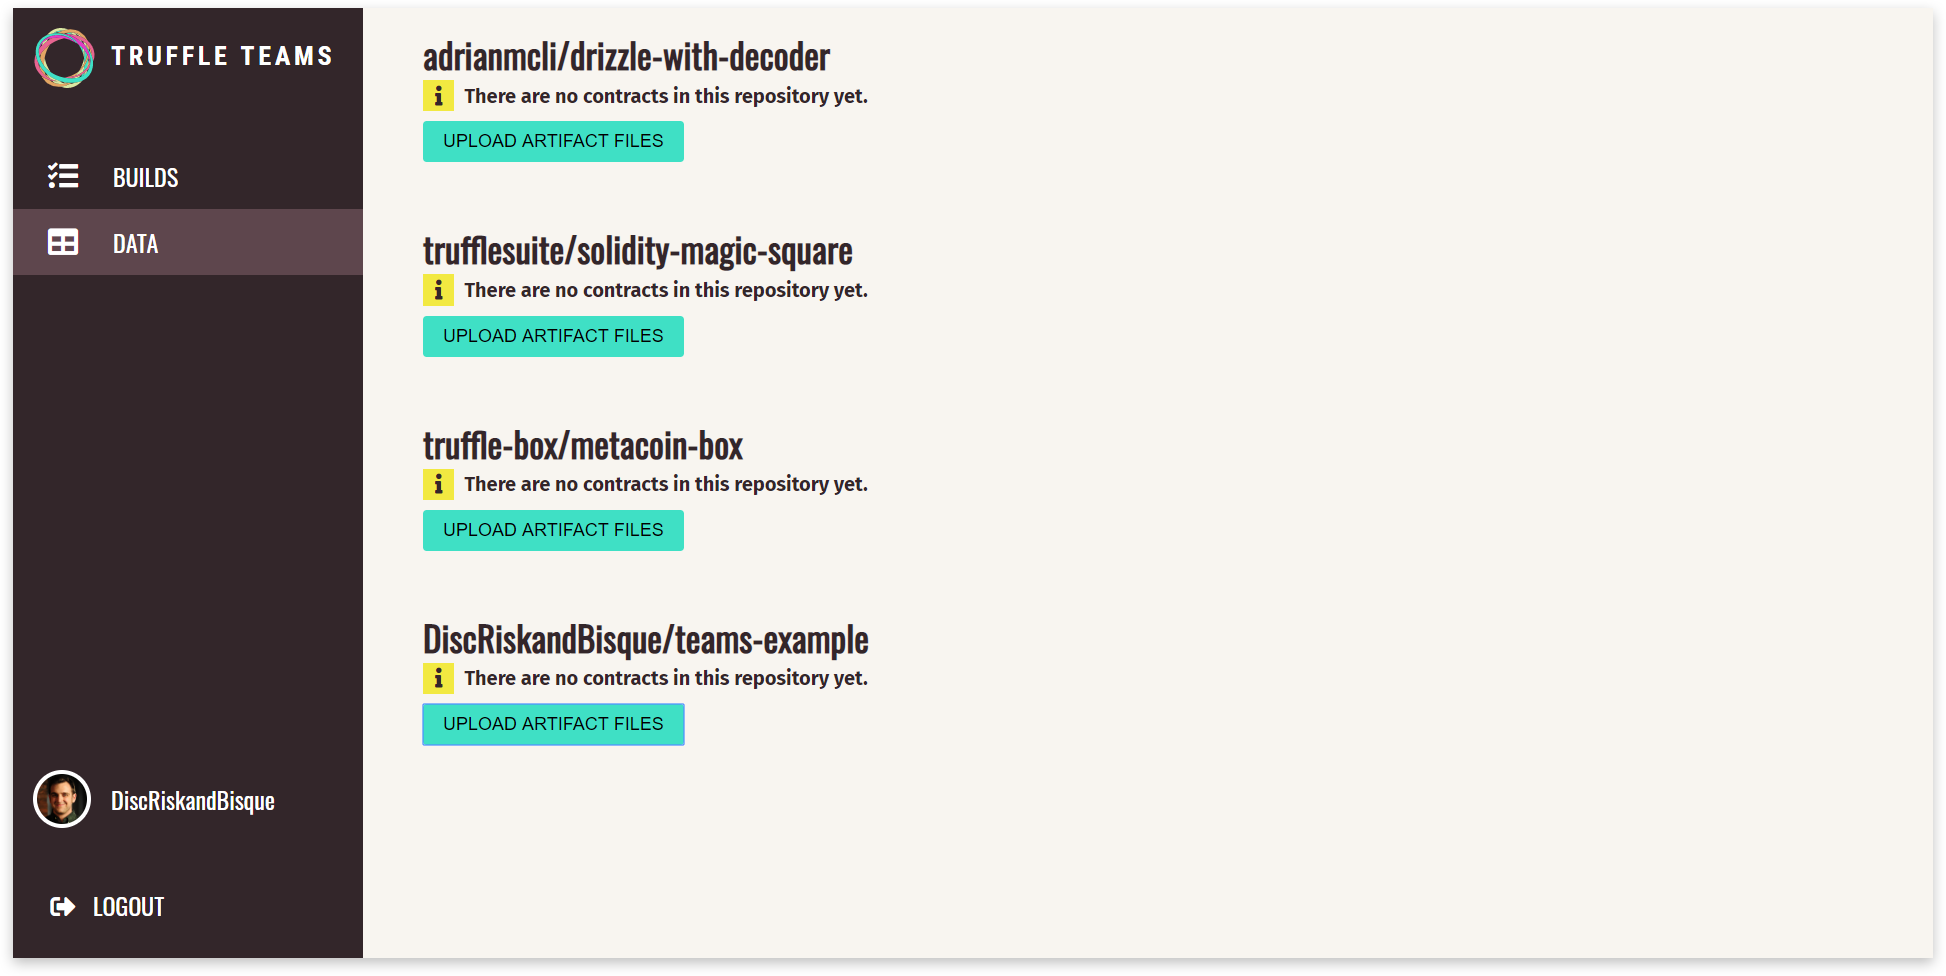
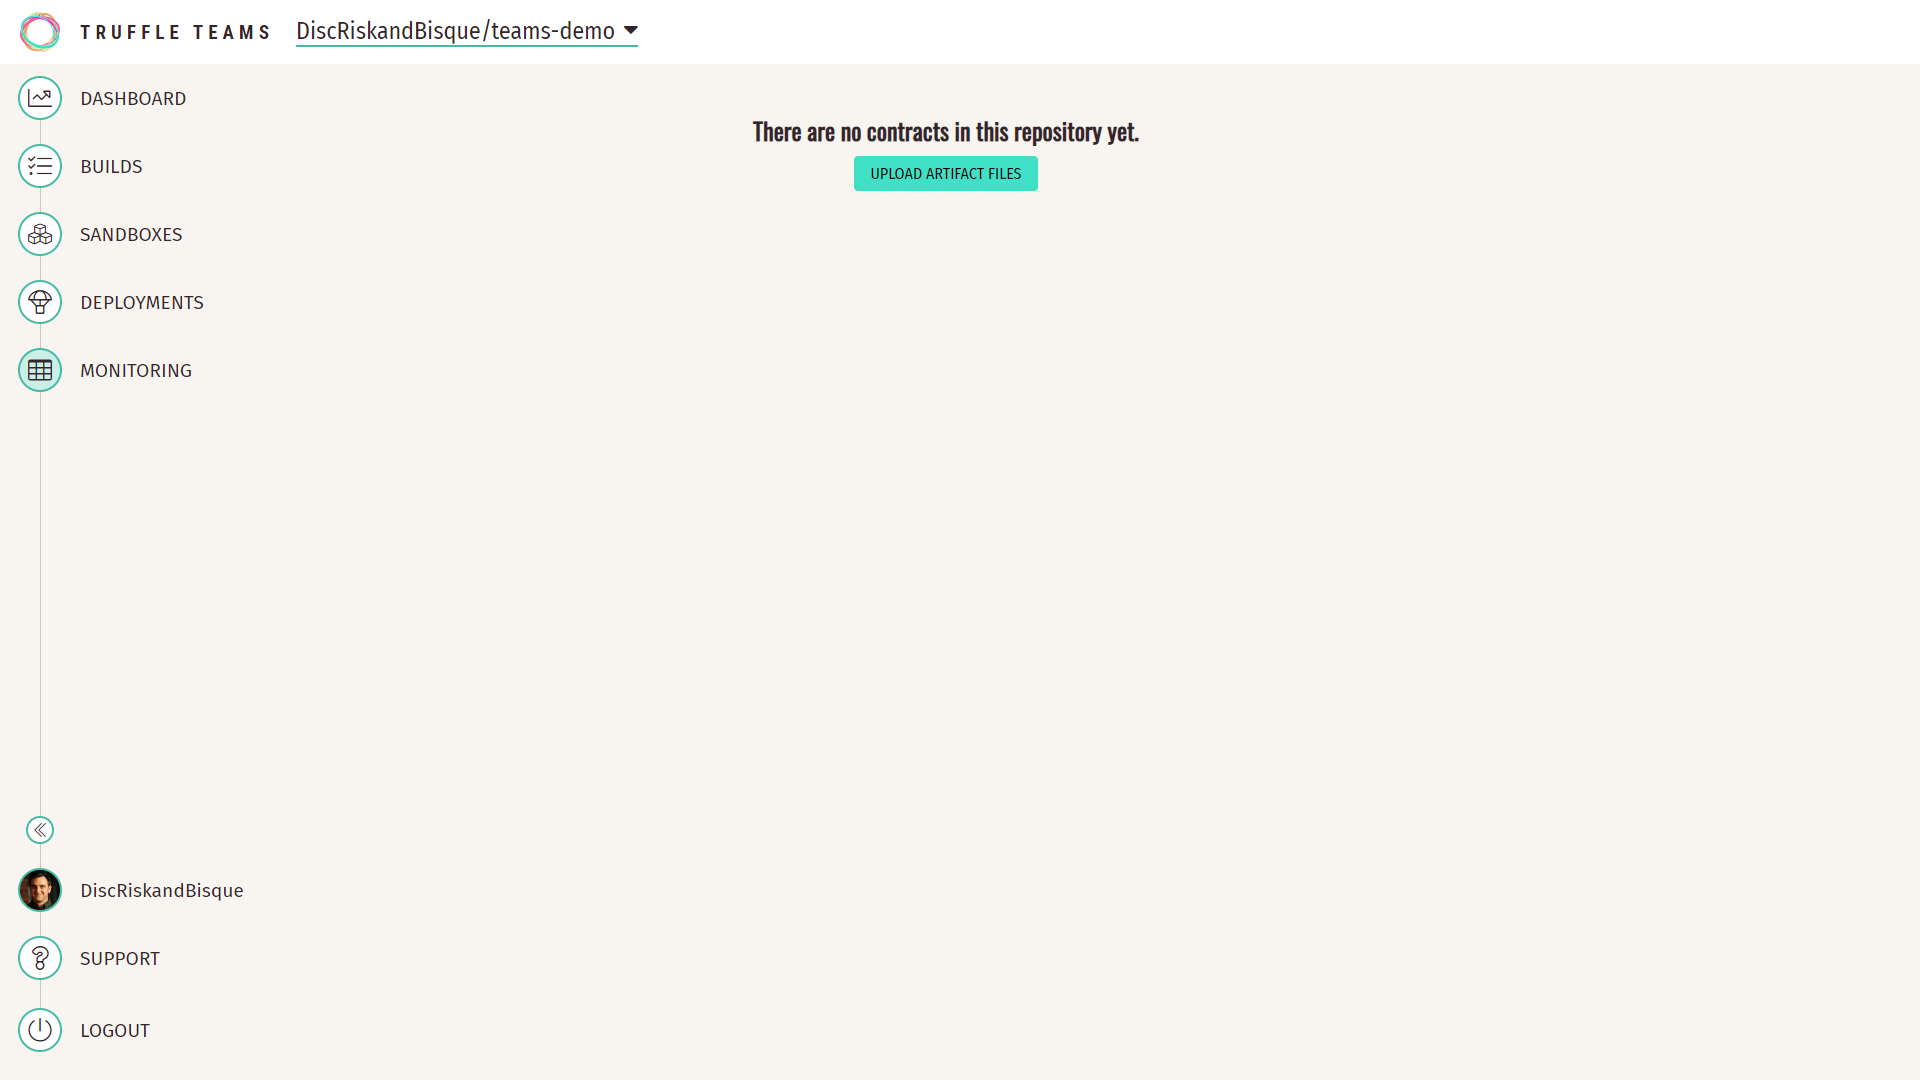
Update copy and screenshots for latest Teams ver

diff --git a/src/docs/teams/contracts/contract-monitoring.md b/src/docs/teams/contracts/contract-monitoring.md
@@ -8,21 +8,29 @@ We can monitor any contract that is deployed to a network and has a Truffle arti
 
 ## Adding Contracts for Monitoring
 
-To start monitoring, click the <span class="inline-menu-item"><i class="fas fa-table"></i>DATA</span> link in the sidebar and then the <span class="inline-button">UPLOAD ARTIFACT FILES</span> button.
+To start monitoring, click the <span class="inline-menu-item"><i class="far fa-table"></i>MONITORING</span> link in the sidebar and then the <span class="inline-button">UPLOAD ARTIFACT FILES</span> button.
 
-![Truffle Teams DATA view](/img/docs/teams/add-contract-01.png)
+<figure>
+  <img class="figure-shadow mb-2" src="/img/docs/teams/add-contract-01.png" alt="Blank contract monitoring screen" style="width: 100%">
+</figure>
 
 From there your operating system's file picker will open. Navigate to your project's contract build folder and select the artifacts you wish to upload. You can select more than one at at time.
 
-![Truffle Teams DATA view](/img/docs/teams/add-contract-02.png)
+<figure>
+  <img class="figure-shadow mb-2" src="/img/docs/teams/add-contract-02.png" alt="Contract file picker dialog" style="width: 100%">
+</figure>
 
 Select the network where this contract is deployed--we'll attempt to fill in the address from the artifact file. If the address does not auto-fill, but you're sure the correct network is selected, you may need to manually add it. Click the <span class="inline-button">NEXT >></span> button to once you've confirmed all the data is correct.
 
-![Truffle Teams DATA view](/img/docs/teams/add-contract-03.png)
+<figure>
+  <img class="figure-shadow mb-2" src="/img/docs/teams/add-contract-03.png" alt="Fill in contract addresses" style="width: 100%">
+</figure>
 
 Truffle Teams will then verify that the contracts exist on the given network at the given addresses. If there are errors shown in this dialog the contracts either exist on a different network or incorrect addresses were given in the last step. Click the <span class="inline-button">CONFIRM >></span> button to begin uploading the artifacts and hooking up monitoring.
 
-![Truffle Teams DATA view](/img/docs/teams/add-contract-04.png)
+<figure>
+  <img class="figure-shadow mb-2" src="/img/docs/teams/add-contract-04.png" alt="Contract address confirmation" style="width: 100%">
+</figure>
 
 Once the upload is successful and monitoring has begun, you'll be redirected to the `DATA` page. From there you can click an individual contract to see more details including successful transactions, failed transactions, and events live.
 
@@ -30,6 +38,11 @@ Once the upload is successful and monitoring has begun, you'll be redirected to 
 <strong>Note</strong>: Monitoring begins once the contract is added to Truffle Teams and does not currently include historical data from before that point.
 </p>
 
-![Truffle Teams DATA view](/img/docs/teams/add-contract-06.png)
+<figure>
+  <img class="figure-shadow mb-2" src="/img/docs/teams/add-contract-05.png" alt="List of newly added contracts" style="width: 100%">
+</figure>
 
-![Truffle Teams DATA view](/img/docs/teams/add-contract-07.png "Monitoring detail page showing details, transactions, and events.")
+<figure>
+  <img class="figure-shadow mb-2" src="/img/docs/teams/add-contract-06.png" alt="Contract detail page" style="width: 100%">
+  <figcaption class="text-center font-italic">Monitoring detail page showing details, transactions, and events.</figcaption>
+</figure>

diff --git a/src/docs/teams/testing/starting-builds.md b/src/docs/teams/testing/starting-builds.md
@@ -7,16 +7,24 @@ layout: docs.hbs
 
 Builds will start automatically once a new commit is pushed to any branch of a repository added to Truffle Teams. You will see the build queued in both the Truffle Teams interface on the `BUILDS` page and on GitHub with the commit itself.
 
-![Truffle Teams DATA view](/img/docs/teams/starting-builds-01.png)
+<figure>
+  <img class="figure-shadow mb-2" src="/img/docs/teams/starting-builds-01.png" alt="Build in progress" style="width: 100%">
+</figure>
 
-![Truffle Teams DATA view](/img/docs/teams/starting-builds-04.png)
+<figure>
+  <img class="mb-2" src="/img/docs/teams/starting-builds-04.png" alt="GitHub build status">
+</figure>
 
 Click on the Build to see a more detailed view with build output.
 
-![Truffle Teams DATA view](/img/docs/teams/starting-builds-02.png)
+<figure>
+  <img class="figure-shadow mb-2" src="/img/docs/teams/starting-builds-02.png" alt="Details of build in progress" style="width: 100%">
+</figure>
 
 ## Restarting Builds
 
 If for whatever reason the build failed and you want to restart a build, it is possible to manually retrigger the build by clicking `Restart Build` next to the specific build on the `BUILDS` page. Note: the `Restart Build` button will be disabled for any in progress builds or builds using an external CI provider (such as Travis or Circle) as you would have to restart the build through your external CI providers interface.
 
-![Truffle Teams DATA view](/img/docs/teams/starting-builds-03.png)
+<figure>
+  <img class="figure-shadow mb-2" src="/img/docs/teams/starting-builds-03.png" alt="Successful build" style="width: 100%">
+</figure>

diff --git a/src/docs/teams/getting-started/adding-repositories.md b/src/docs/teams/getting-started/adding-repositories.md
@@ -9,7 +9,10 @@ The first time you sign in to Truffle Teams, GitHub will prompt you to install i
 
 To add a repository to Truffle Teams, navigate to <a href="https://my.truffleteams.com" target="_blank">https://my.truffleteams.com</a> (this link will open in a new window). Click `LOGIN WITH GITHUB` and once you've successfully logged in you'll be redirected to the Truffle Teams home page. Once logged in, you can also click on the `Truffle Teams` logo in the top right corner of any page to be redirected to the home page. From there you can scroll to the bottom of the page and click <span class="inline-button">ADD REPOSITORY</span>, this will take you to the Truffle Teams GitHub app page where you can select which repositories you would like to add to Teams.
 
-![Truffle Teams DATA view](/img/docs/teams/add-repo-00.png)
+<figure>
+  <img class="figure-shadow mb-2" src="/img/docs/teams/add-repo-00.png" alt="Deployment Selection Screen" style="width: 100%">
+  <figcaption class="text-center font-italic">The repo selection (home) screen with and without repositories already present.</figcaption>
+</figure>
 
 Click `Configure` to continue configuring Truffle Teams.
 

diff --git a/src/docs/teams/deployments/about-deployments.md b/src/docs/teams/deployments/about-deployments.md
@@ -7,7 +7,7 @@ layout: docs.hbs
 On the left navigation bar, click the item near the top labelled <span class="inline-menu-item"><i class="fal fa-parachute-box"></i>DEPLOYMENTS</span> next to the parachute icon. This will bring you to the deployments page. You'll notice there are three columns: **Commits**, **Staging**, and **Production**.
 
 <figure>
-  <img class="mb-2" src="/img/docs/teams/deployment-manager.png" alt="Deployment Manager" style="width: 100%" class="figure-shadow">
+  <img class="figure-shadow mb-2" src="/img/docs/teams/deployment-manager.png" alt="Deployment Manager" style="width: 100%">
   <figcaption class="text-center font-italic">The main deployments screen</figcaption>
 </figure>
 

diff --git a/src/docs/teams/quickstart.md b/src/docs/teams/quickstart.md
@@ -47,7 +47,9 @@ We then arrive at the home screen and see the repos we've added--let's commit so
 
 Builds will start automatically once a new commit is pushed to any branch of a repository added to Truffle Teams. You will see the build queued in both the Truffle Teams interface on the `BUILDS` page and on GitHub with the commit itself.
 
-![Truffle Teams DATA view](/img/docs/teams/starting-builds-comp.png)
+<figure>
+  <img class="figure-shadow mb-2" src="/img/docs/teams/starting-builds-comp.png" alt="Build in Progress in both Truffle Teams and GitHub" style="width: 100%">
+</figure>
 
 ## Deploying Contracts
 
